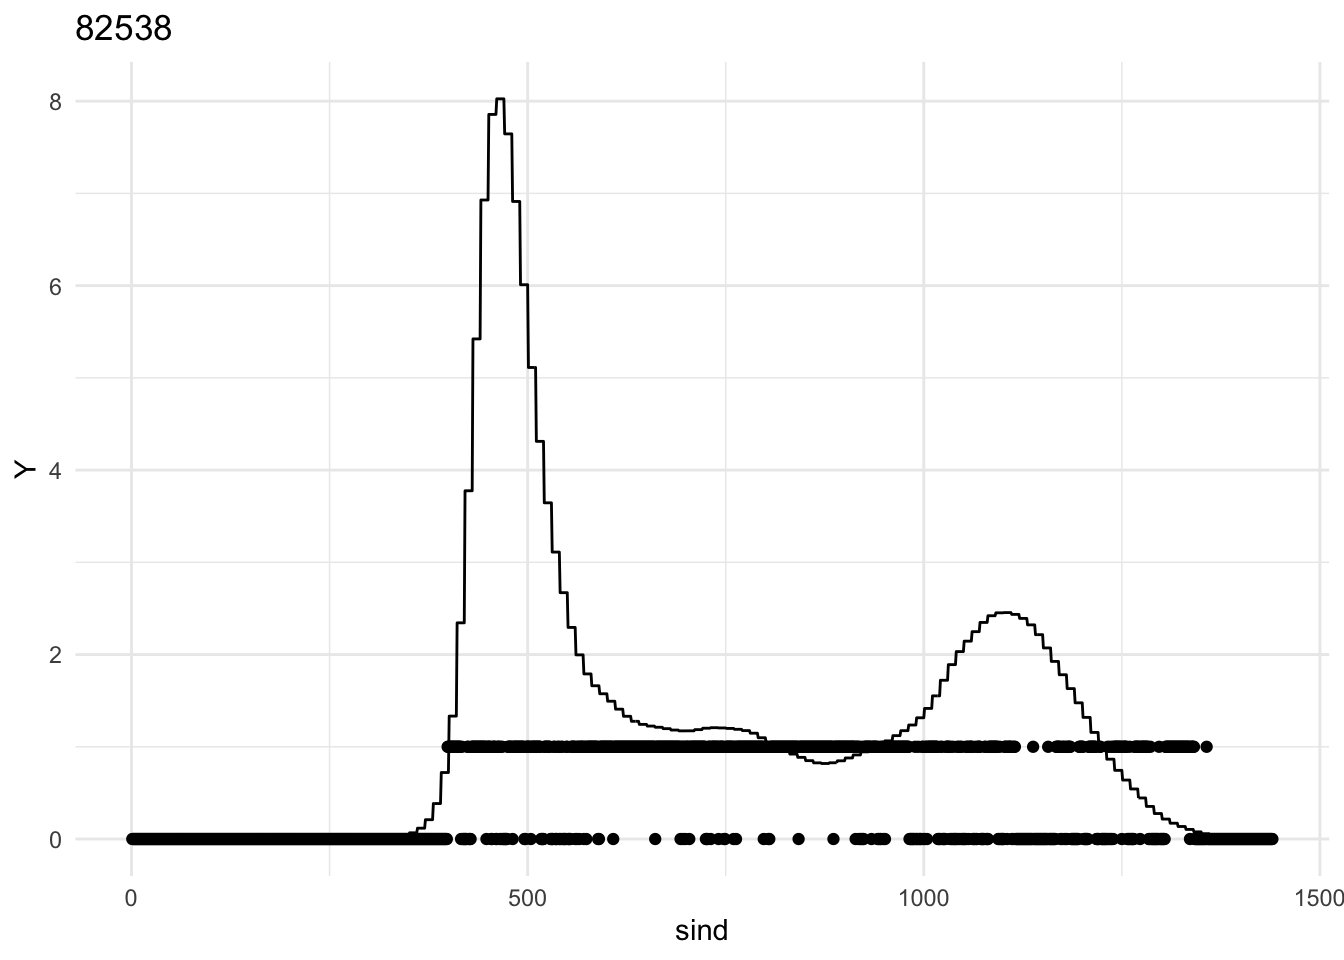
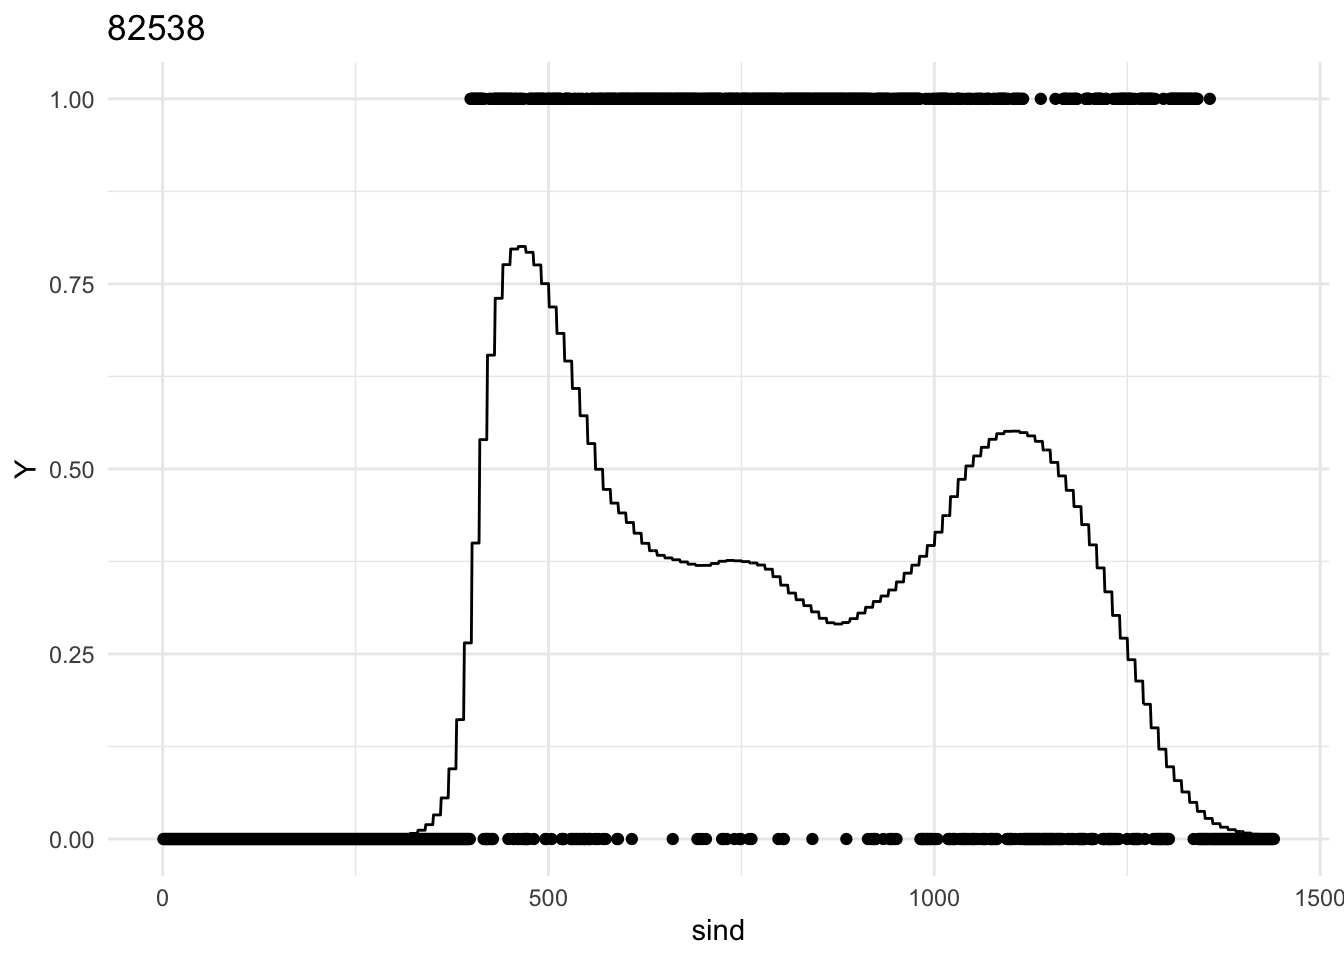
format

diff --git a/Docs/ProgressReport.html b/Docs/ProgressReport.html
@@ -278,7 +278,7 @@ df %&gt;%
   facet_wrap(~SEQN)+
   labs(x=&quot;Time&quot;, y = &quot;Activity&quot;, title = &quot;A brief overview of the outcome&quot;)</code></pre>
 <p><img src="ProgressReport_files/figure-html/unnamed-chunk-2-1.png" width="672" />
-## fGFPCA</p>
+## fGFPCA model fitting</p>
 <pre class="r"><code># code
 source(here(&quot;Code/GLMM-FPCA.R&quot;)) 
 # use pred_latent function to estimate latent function 
@@ -395,20 +395,20 @@ sum(fpca_mod$VarMats[[1]]!=fpca_mod$VarMats[[2]]) </code></pre>
 <div id="debias" class="section level3" number="1.1.5">
 <h3><span class="header-section-number">1.1.5</span> Debias?</h3>
 </div>
-<div id="out-of-sample-prediction" class="section level3"
-number="1.1.6">
-<h3><span class="header-section-number">1.1.6</span> Out-of-sample
-prediction</h3>
+</div>
+<div id="out-of-sample-prediction" class="section level2" number="1.2">
+<h2><span class="header-section-number">1.2</span> Out-of-sample
+prediction</h2>
 <p>follow up on the last report, I’ll add some details here.</p>
 <p>Let’s set:</p>
 <ul>
 <li><span class="math inline">\(s\)</span>: bin index</li>
 <li><span class="math inline">\(t_{m_s}\)</span>: midpoint time of bin
 s</li>
-<li><span class="math inline">\(\mathcal{T}_s\)</span>: all observation
+<li><span class="math inline">\(\mathscr{T}_s\)</span>: all observation
 points in bin s</li>
-<li><span class="math inline">\(Y_i^s)\)</span> all observations in bin
-s from subject i</li>
+<li><span class="math inline">\(Y_i^s\)</span> all observations in bin s
+from subject i</li>
 </ul>
 <p>Let’s assume we have a new subject <span
 class="math inline">\(u\)</span> with maximum observation time <span
@@ -597,17 +597,17 @@ data.frame(bin = mid, eta_pred = eta_pred_out) %&gt;%
   right_join(df %&gt;% filter(id==rand_id) %&gt;%  select(Y, sind, bin), by = &quot;bin&quot;) %&gt;%
   ggplot()+
   geom_point(aes(x=sind, y = Y))+
-  geom_line(aes(x=sind, y = exp(eta_pred)/1+exp(eta_pred)))+
+  geom_line(aes(x=sind, y = exp(eta_pred)/(1+exp(eta_pred))))+
   labs(title = rand_id)</code></pre>
 <p><img src="ProgressReport_files/figure-html/unnamed-chunk-18-1.png" width="672" /></p>
 </div>
 </div>
-<div id="full-data-application-output" class="section level2"
-number="1.2">
-<h2><span class="header-section-number">1.2</span> Full data application
-output</h2>
-<div id="fgfpca" class="section level3" number="1.2.1">
-<h3><span class="header-section-number">1.2.1</span> fGFPCA</h3>
+<div id="full-data-application-output" class="section level1"
+number="2">
+<h1><span class="header-section-number">2</span> Full data application
+output</h1>
+<div id="fgfpca" class="section level2" number="2.1">
+<h2><span class="header-section-number">2.1</span> fGFPCA</h2>
 <ul>
 <li>Still need to project eigenfunctions to the full grid</li>
 </ul>
@@ -632,9 +632,8 @@ df_test_full%&gt;%
     labs(x = &quot;Time&quot;, y = &quot;Estimated latent function (probablity scale)&quot;,
          title = &quot;Constant latent function within bin&quot;)</code></pre>
 <p><img src="ProgressReport_files/figure-html/unnamed-chunk-20-1.png" width="672" /></p>
-</div>
-<div id="numeric-problems" class="section level3" number="1.2.2">
-<h3><span class="header-section-number">1.2.2</span> Numeric
+<div id="numeric-problems" class="section level3" number="2.1.1">
+<h3><span class="header-section-number">2.1.1</span> Numeric
 problems</h3>
 <ul>
 <li>Three subjects had failed approximation, all happened with the
@@ -673,8 +672,8 @@ auc_t1020 &lt;- lst_auc[4] %&gt;%
 auc_t1020 &lt;- lapply(auc_t1020, function(x){x@y.values[[1]]}) %&gt;% unlist()</code></pre>
 </div>
 </div>
-<div id="glmmadaptvie" class="section level2" number="1.3">
-<h2><span class="header-section-number">1.3</span> GLMMadaptvie</h2>
+<div id="glmmadaptvie" class="section level2" number="2.2">
+<h2><span class="header-section-number">2.2</span> GLMMadaptvie</h2>
 <ul>
 <li>when fitting model with <strong>random intercept + slope</strong> on
 the same full training set (even after scaling covariates): Error:
@@ -793,8 +792,8 @@ auc_t1020_adglmm &lt;- auc_t1020_adglmm[1] %&gt;%
 auc_t1020_adglmm &lt;- lapply(auc_t1020_adglmm, function(x){x@y.values[[1]]}) %&gt;% unlist()</code></pre>
 </div>
 <div id="compare-fgfpca-and-glmmadaptive" class="section level2"
-number="1.4">
-<h2><span class="header-section-number">1.4</span> Compare fGFPCA and
+number="2.3">
+<h2><span class="header-section-number">2.3</span> Compare fGFPCA and
 GLMMadaptive</h2>
 <ul>
 <li>To use the same sample for comparison, I’d exclude the subjects with
@@ -1011,8 +1010,8 @@ too many points lumped together!</li>
   facet_wrap(~id)</code></pre>
 <p><img src="ProgressReport_files/figure-html/unnamed-chunk-32-1.png" width="672" /></p>
 </div>
-<div id="discussion" class="section level2" number="1.5">
-<h2><span class="header-section-number">1.5</span> Discussion</h2>
+<div id="discussion" class="section level2" number="2.4">
+<h2><span class="header-section-number">2.4</span> Discussion</h2>
 <ul>
 <li>What would be the reference method to compare our performance to?
 Original GLMMadaptvie perhaps is feasible on the entire dataset. But
